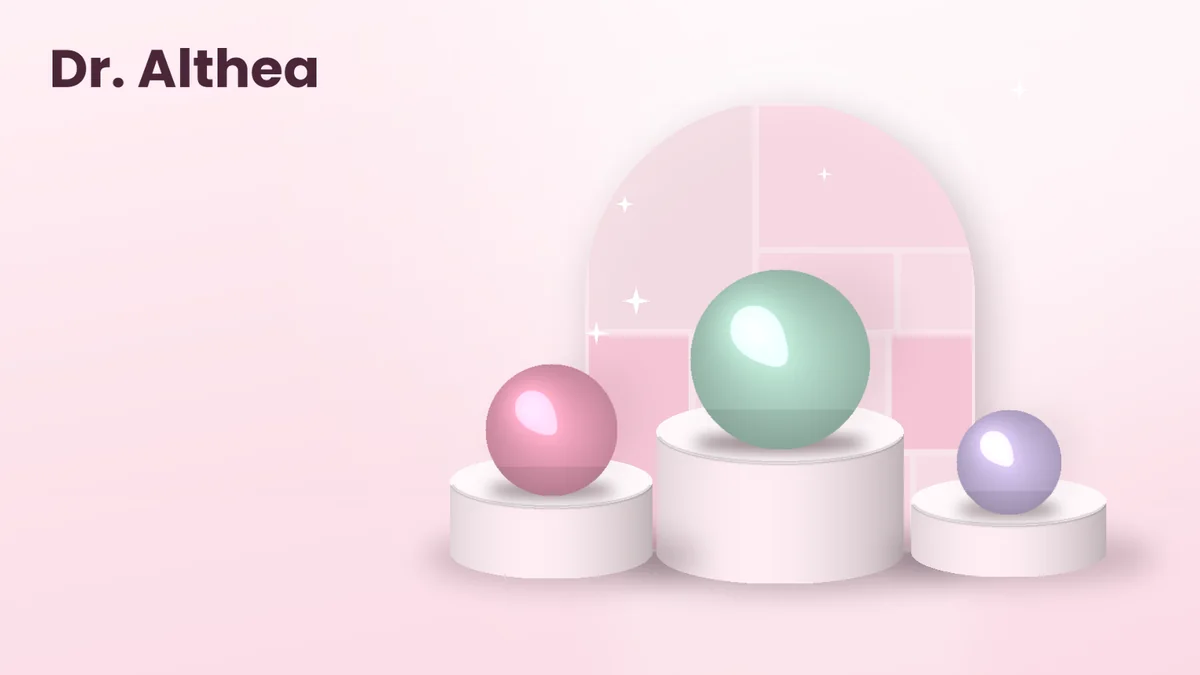
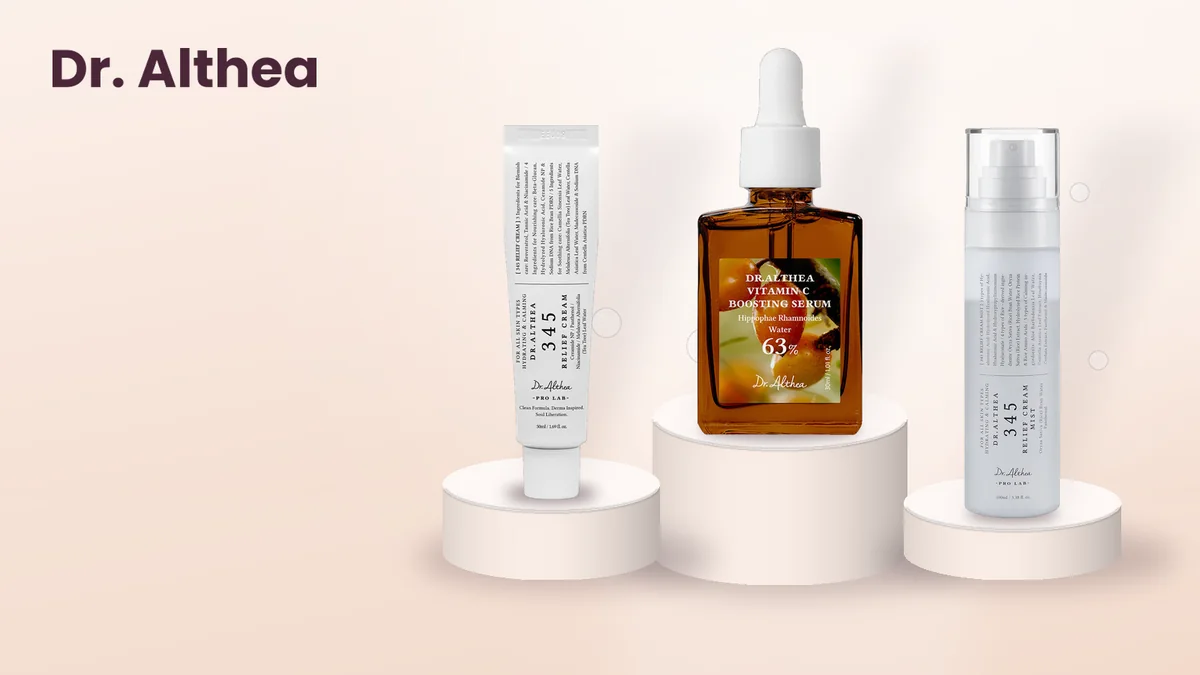
Cena da marca Dr. Althea
Claude-Session: https://claude.ai/code/session_01LxTRdjkTdLyM14waSGSEFh

diff --git a/tools/marcas/compor_cenas.py b/tools/marcas/compor_cenas.py
@@ -15,7 +15,7 @@ CENA = {"anua": [1, 0, 6], "arencia": [6, 7, 5], "aromatica": [0, 6, 7], "banila
  "dr-melaxin": [2, 3, 5], "dr-reju-all": [2, 1], "ilso": [5, 6, 7], "kaine": [0, 4, 6], "lador": [1, 3, 6],
  "manyo": [1], "medicube": [6, 1, 7], "mediheal": [4, 5], "mise-en-scene": [4, 6, 7], "mixsoon": [2, 3, 4],
  "purcell": [0, 1, 2], "round-lab": [2, 4, 3], "skin1004": [1, 0, 4], "some-by-mi": [7, 5], "tirtir": [1, 2, 7],
- "wellage": [0, 2, 6], "another-face": [6], "ongredients": [7], "numbuzin": [0, 1, 2], "purito-seoul": [0, 1, 2], "rejuran": [0, 1, 2], "torriden": [0, 1, 2], "vt-cosmetics": [0, 1, 2], "mediheal": [0, 1, 2]}
+ "wellage": [0, 2, 6], "another-face": [6], "ongredients": [7], "numbuzin": [0, 1, 2], "purito-seoul": [0, 1, 2], "rejuran": [0, 1, 2], "torriden": [0, 1, 2], "vt-cosmetics": [0, 1, 2], "mediheal": [0, 1, 2], "dr-althea": [0, 1, 2]}
 M = json.load(open(f"{R}/site/marcas/marcas.json", encoding="utf-8"))
 W, H = 1600, 900
 OUTW, OUTH = 1200, 675
